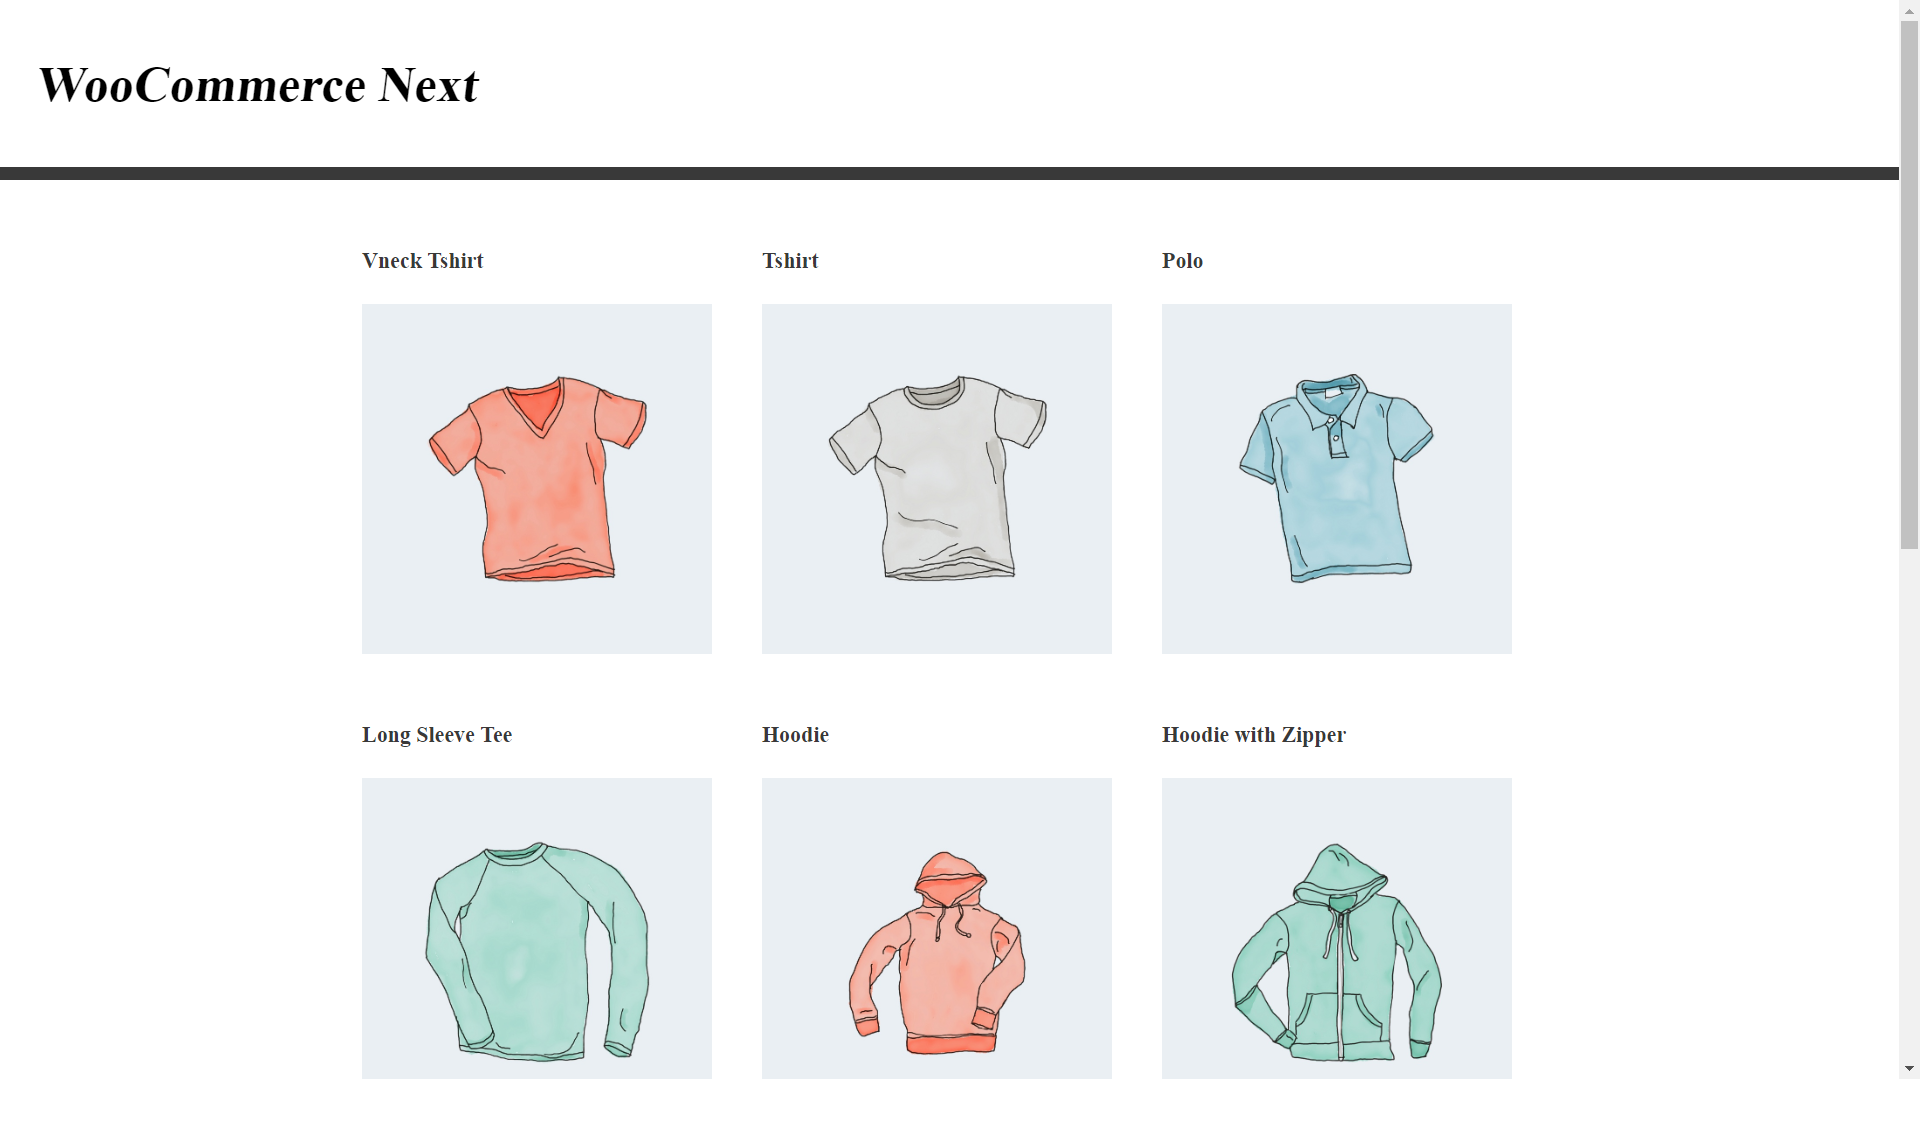
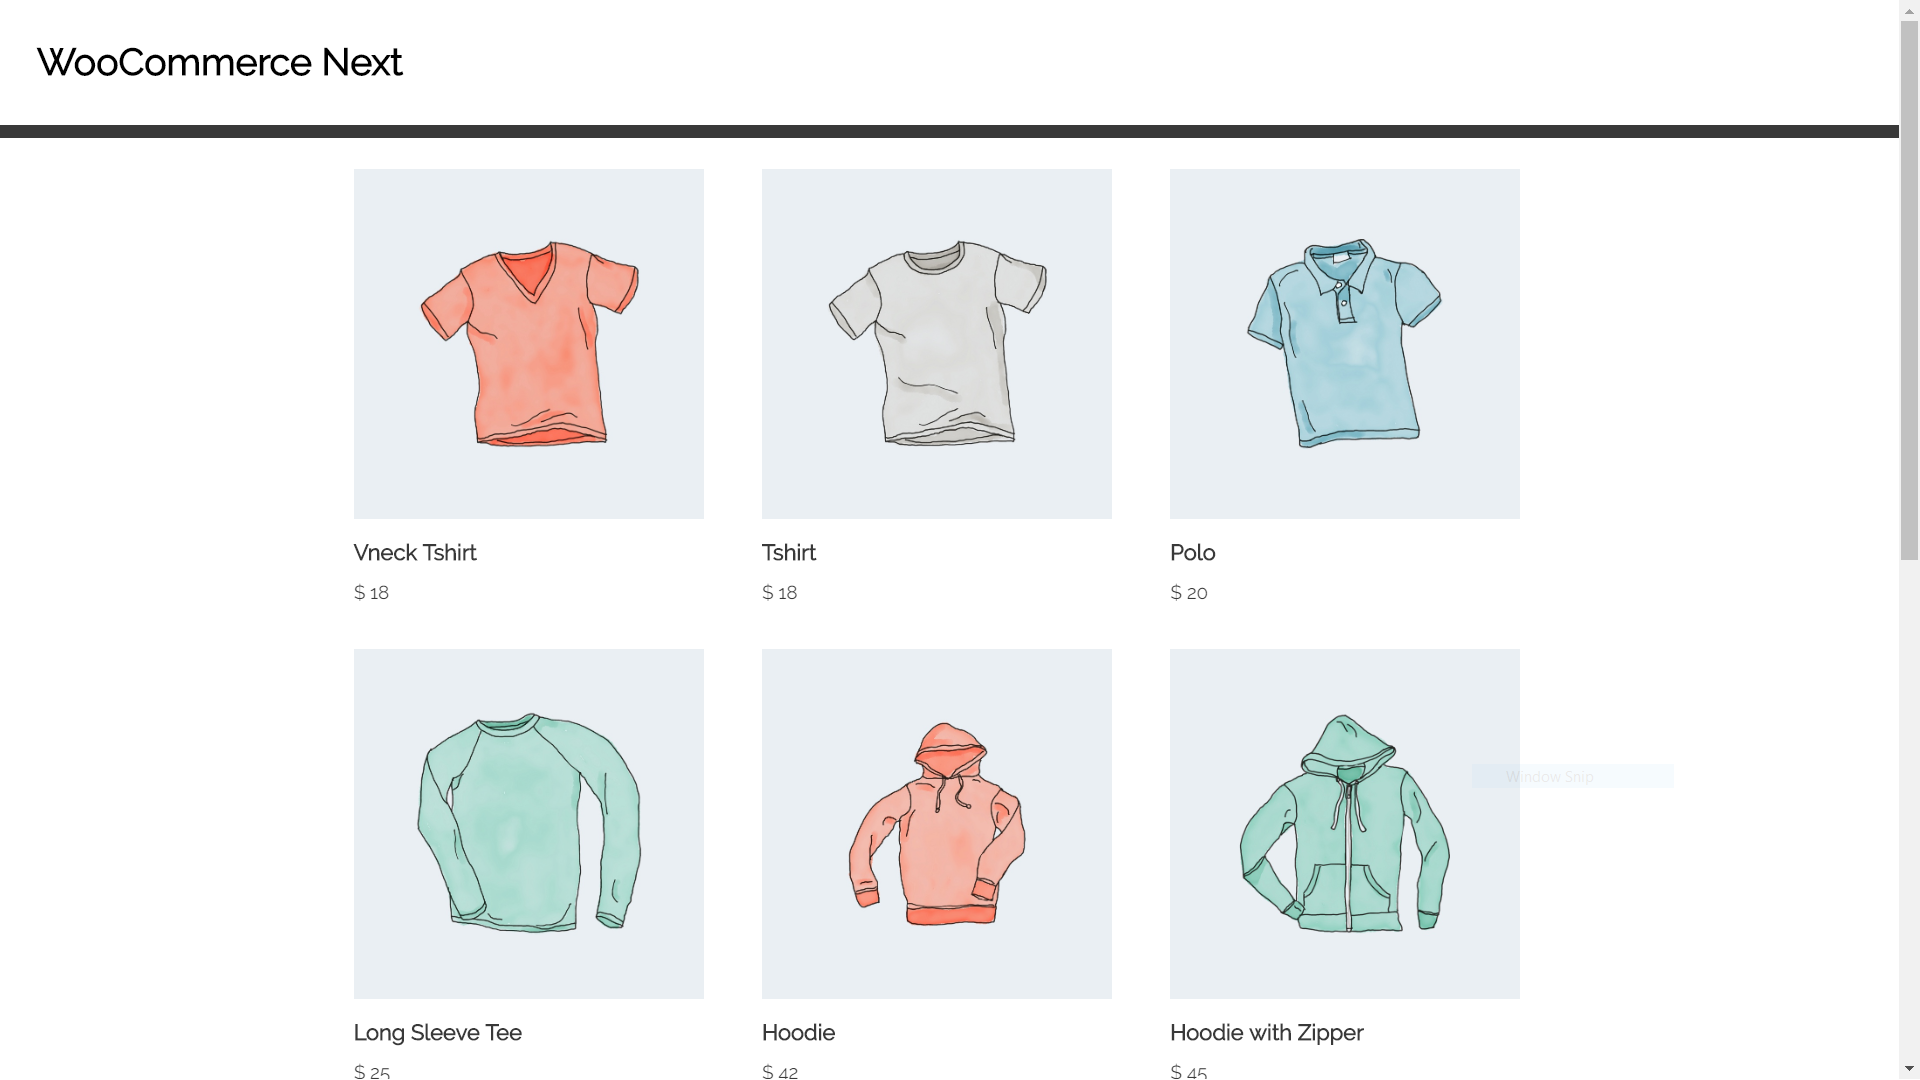
Update to next 8.0.0. Style fixes. Add price.

diff --git a/pages/product.js b/pages/product.js
@@ -10,7 +10,7 @@ const Row = styled.div`
 `;
 
 const ImgContainer = styled.div`
-  padding: 10px;
+  padding-right: 15px;
   @media (min-width: 992px) {
     width: 65%;
   }
@@ -26,6 +26,10 @@ const Description = styled.div`
   }
 `;
 
+const Price = styled.span`
+  font-size: 2em;
+`;
+
 const Product = ({ product }) => {
   {
     return product !== undefined ? (
@@ -38,9 +42,10 @@ const Product = ({ product }) => {
               alt={product.name}
             />
           </ImgContainer>
-          <Description
-            dangerouslySetInnerHTML={{ __html: product.description }}
-          />
+          <Description>
+            <Price>$ {product.price}</Price>
+            <div dangerouslySetInnerHTML={{ __html: product.description }} />
+          </Description>
         </Row>
       </>
     ) : (

diff --git a/components/products.js b/components/products.js
@@ -8,12 +8,20 @@ const Section = styled.section`
 
 const Single = styled.div`
   width: 300px;
-  margin: 10px;
+  margin: 1em auto;
+`;
+
+const Title = styled.h3`
+  margin: 0;
 `;
 
 const Img = styled.img`
   width: 280px;
   height: 280px;
+`;
+
+const Price = styled.div`
+  font-size: 1em;
 `;
 
 const Products = ({ products }) => (
@@ -25,11 +33,12 @@ const Products = ({ products }) => (
           as={`/products/${product.slug}`}
         >
           <a>
-            <h3>{product.name}</h3>
             <Img
               src={product.images[0].src}
               alt={`${product.name} featured image`}
             />
+            <Title>{product.name}</Title>
+            <Price>$ {product.price}</Price>
           </a>
         </Link>
       </Single>

diff --git a/components/header.js b/components/header.js
@@ -16,16 +16,13 @@ Router.onRouteChangeError = () => {
 };
 
 const Logo = styled.h1`
-  font-size: 4rem;
+  font-size: 2em;
   margin-left: 2rem;
   position: relative;
   z-index: 2;
-  transform: skew(-7deg);
   a {
     padding: 0.5rem 1rem;
-    /* background: ${props => props.theme.red}; */
     color: black;
-    /* text-transform: uppercase; */
     text-decoration: none;
   }
   @media (max-width: 1300px) {

diff --git a/components/Page.js b/components/Page.js
@@ -21,7 +21,7 @@ const StyledPage = styled.div`
 const Inner = styled.div`
   max-width: ${props => props.theme.maxWidth};
   margin: 0 auto;
-  padding: 2rem;
+  padding: 1rem;
 `;
 
 const GlobalStyle = createGlobalStyle`

diff --git a/README.md b/README.md
@@ -6,16 +6,16 @@ An example app to learn Next.js with React Hooks. I'm using a WooCommerce Backen
 
 ## Progress
 
-- Lists all products in the home page
-- Routing with express for dev
-- Routing for now 2 (serverless)
+- List all products in the home page
 - Single product page
-
+- Routing with express for dev
+- Routing for now (serverless)
 
 ## TODO
 
 - Cart management
-- Pleasing design
+- Checkout
+- Payment integration
 
 ### Getting started with Next.js
 
